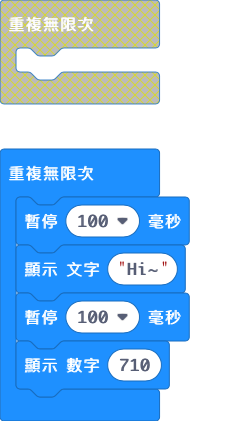
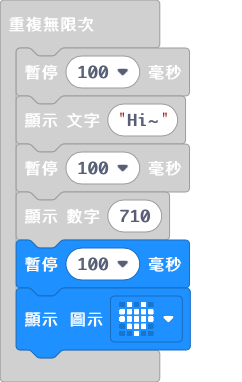
增加圖示

diff --git a/main.ts b/main.ts
@@ -3,4 +3,6 @@ basic.forever(function () {
     basic.showString("Hi~")
     basic.pause(100)
     basic.showNumber(710)
+    basic.pause(100)
+    basic.showIcon(IconNames.Heart)
 })
